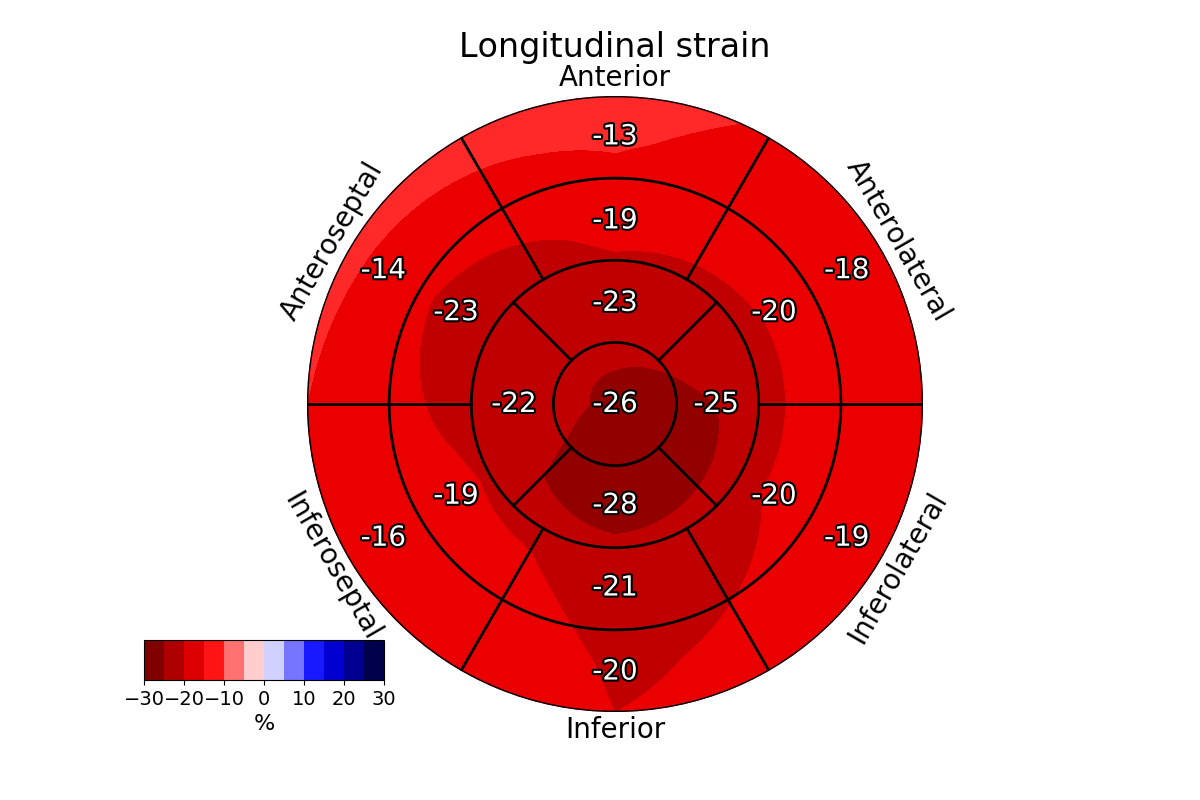
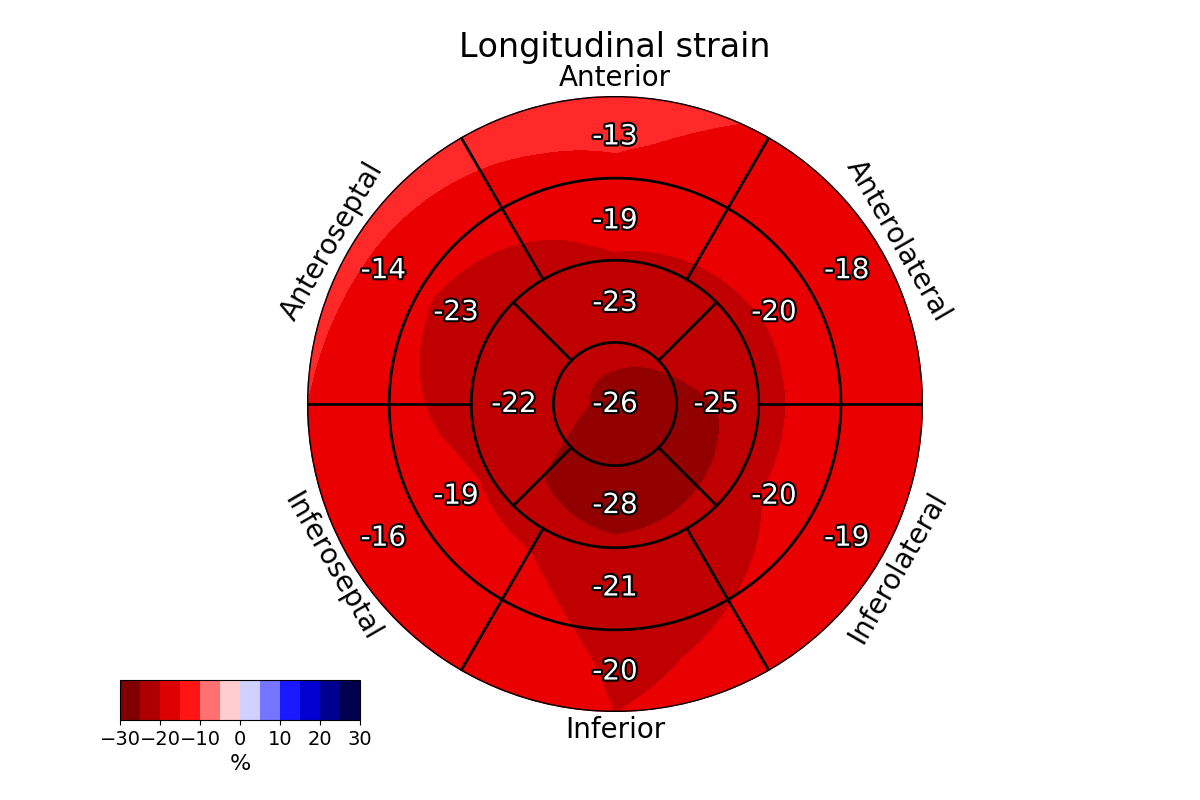
Add pandas Series example

Changed region(s): [[0.0925, 0.7812, 0.3392, 0.9375], [0.185, 0.9375, 0.2158, 0.9688]]

diff --git a/ahasmoothplot.py b/ahasmoothplot.py
@@ -304,7 +304,7 @@ class SmoothAHAPlot:
 
         # -----Add plot featres-----------------------------------------------------------------------------------------
         # Create the axis for the colorbars
-        bar = fig.add_axes([0.12, 0.15, 0.2, 0.05])
+        bar = fig.add_axes([0.1, 0.1, 0.2, 0.05])
         cb1 = mpl.colorbar.ColorbarBase(bar, cmap=cmap, norm=norm, orientation='horizontal')
         cb1.set_label(units, size=16)
         cb1.ax.tick_params(labelsize=14, which='major')

diff --git a/README.md b/README.md
@@ -96,7 +96,7 @@ aha.plot_strain('18_AHA_strain.png', data=strain_dict)
 aha.plot_strain(filename='', data=None, echop=False)
 
 ```
-*filename*: name of the file to save figure
+*filename*: saved figure file name
 
 *data*: dictionary/pandas Series with names of the segments as keys/index and corresponding segmental values
 
@@ -106,7 +106,7 @@ aha.plot_strain(filename='', data=None, echop=False)
 aha.plot_myocardial_work(filename='', data=None, echop=False)
 
 ```
-*filename*: name of the file to save figure
+*filename*: saved figure file name
 
 *data*: dictionary/pandas Series with names of the segments as keys/index and corresponding segmental values
 
